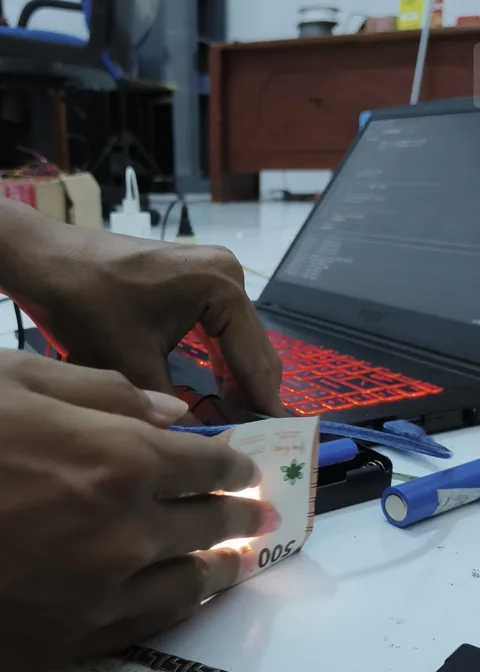
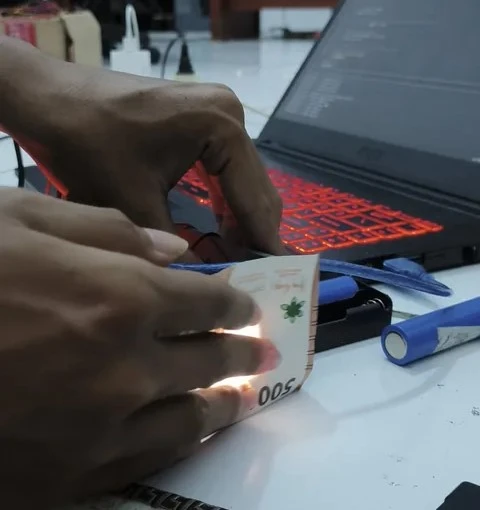
Update gambar

diff --git a/projek.html b/projek.html
@@ -1,20 +1,25 @@
 <!doctype html>
 <html lang="id">
+
 <head>
   <meta charset="UTF-8" />
   <meta name="viewport" content="width=device-width, initial-scale=1" />
   <meta name="theme-color" content="#f7f7f4" />
   <title>Jasa Projek Elektronika &amp; IoT - Cetakin</title>
-  <meta name="description" content="Jasa pengembangan alat, prototipe elektronika, dan IoT di Cetakin. Lihat projek AAC Bicara Warna, TekSif Chromoney, dan IoT kelulut Mangrovepreneurs." />
+  <meta name="description"
+    content="Jasa pengembangan alat, prototipe elektronika, dan IoT di Cetakin. Lihat projek AAC Bicara Warna, TekSif Chromoney, dan IoT kelulut Mangrovepreneurs." />
   <meta property="og:type" content="website" />
   <meta property="og:title" content="Jasa Projek - Cetakin" />
-  <meta property="og:description" content="Dari kebutuhan, jadi alat yang bisa dipakai. Kenali pengerjaan perangkat asistif, elektronika, dan IoT bersama Cetakin." />
+  <meta property="og:description"
+    content="Dari kebutuhan, jadi alat yang bisa dipakai. Kenali pengerjaan perangkat asistif, elektronika, dan IoT bersama Cetakin." />
   <meta property="og:image" content="https://www.cetak-in.my.id/assets/projek/aac-result-720.webp" />
   <link rel="canonical" href="https://www.cetak-in.my.id/projek.html" />
   <link rel="icon" type="image/png" href="./assets/favicon.png" />
   <link rel="preconnect" href="https://fonts.googleapis.com" />
   <link rel="preconnect" href="https://fonts.gstatic.com" crossorigin />
-  <link href="https://fonts.googleapis.com/css2?family=DM+Sans:wght@400;500;600;700&amp;family=Outfit:wght@400;500;600;700;800&amp;display=swap" rel="stylesheet" />
+  <link
+    href="https://fonts.googleapis.com/css2?family=DM+Sans:wght@400;500;600;700&amp;family=Outfit:wght@400;500;600;700;800&amp;display=swap"
+    rel="stylesheet" />
   <link rel="stylesheet" href="./styles.css" />
   <link rel="stylesheet" href="./projek.css" />
   <script type="module" src="./analytics-init.js"></script>
@@ -22,11 +27,13 @@
   <script src="./contact.js" defer></script>
   <script src="./app.js" defer></script>
 </head>
+
 <body class="projects-page" id="atas">
   <a class="skip-link" href="#konten">Lewati ke konten</a>
   <header class="site-header">
     <div class="nav-shell container">
-      <a class="brand" href="./index.html" aria-label="Beranda Cetakin"><img src="./assets/logo.png" alt="Cetakin" width="532" height="169" /></a>
+      <a class="brand" href="./index.html" aria-label="Beranda Cetakin"><img src="./assets/logo.png" alt="Cetakin"
+          width="532" height="169" /></a>
       <nav class="desktop-nav" aria-label="Navigasi utama">
         <a href="./index.html">Beranda</a>
         <a href="./clicker.html">Clicker custom</a>
@@ -35,7 +42,8 @@
         <a href="./projek.html" aria-current="page">Jasa Projek</a>
       </nav>
       <a class="nav-cta" href="#diskusi">Bahas projek <span aria-hidden="true">↗</span></a>
-      <button class="menu-toggle" type="button" aria-label="Buka menu" aria-expanded="false" aria-controls="menu-ponsel"><span></span><span></span></button>
+      <button class="menu-toggle" type="button" aria-label="Buka menu" aria-expanded="false"
+        aria-controls="menu-ponsel"><span></span><span></span></button>
     </div>
     <nav class="mobile-nav" id="menu-ponsel" aria-label="Navigasi ponsel" hidden>
       <a href="./index.html">Beranda</a>
@@ -50,120 +58,256 @@
   <main id="konten">
     <section class="projects-hero" aria-labelledby="projects-title">
       <div class="container">
-        <div class="projects-breadcrumb"><a href="./index.html">Beranda</a><span aria-hidden="true">/</span><span>Jasa Projek</span></div>
+        <div class="projects-breadcrumb"><a href="./index.html">Beranda</a><span aria-hidden="true">/</span><span>Jasa
+            Projek</span></div>
         <div class="projects-hero-grid">
           <div class="projects-hero-copy">
             <p class="projects-eyebrow"><span aria-hidden="true"></span> ELEKTRONIKA · PERANGKAT IoT · PROTOTIPE</p>
             <h1 id="projects-title">Dari kebutuhan,<br />jadi alat yang<br /><em>bisa dipakai.</em></h1>
-            <p class="projects-lead">Ada pekerjaan yang ingin dipermudah dengan alat? Kami bantu merancang dan merakitnya, dari rangkaian elektronik sampai aplikasi pendampingnya.</p>
+            <p class="projects-lead">Ada pekerjaan yang ingin dipermudah dengan alat? Kami bantu merancang dan
+              merakitnya, dari rangkaian elektronik sampai aplikasi pendampingnya.</p>
             <div class="projects-hero-actions">
-              <a class="button button-primary" data-wa-context="project" href="https://wa.me/6285822801431?text=Halo%20Kak%2C%20saya%20ingin%20membahas%20projek%20elektronika%20atau%20IoT%20di%20Cetakin.">Ceritakan kebutuhanmu <span aria-hidden="true">↗</span></a>
-              <a class="projects-text-link" href="#pilihan-projek">Lihat hasil pengerjaan <span aria-hidden="true">↓</span></a>
+              <a class="button button-primary" data-wa-context="project"
+                href="https://wa.me/6285822801431?text=Halo%20Kak%2C%20saya%20ingin%20membahas%20projek%20elektronika%20atau%20IoT%20di%20Cetakin.">Ceritakan
+                kebutuhanmu <span aria-hidden="true">↗</span></a>
+              <a class="projects-text-link" href="#pilihan-projek">Lihat hasil pengerjaan <span
+                  aria-hidden="true">↓</span></a>
             </div>
-            <div class="projects-hero-note"><span aria-hidden="true">✳</span><p>Setiap projek dimulai dari kebutuhan.<br />Komponen dan fiturnya menyusul.</p></div>
+            <div class="projects-hero-note"><span aria-hidden="true">✳</span>
+              <p>Setiap projek dimulai dari kebutuhan.<br />Komponen dan fiturnya menyusul.</p>
+            </div>
           </div>
           <div class="projects-hero-visual">
             <div class="projects-photo-frame">
-              <img src="./assets/projek/aac-result-720.webp" alt="Perangkat AAC Bicara Warna dengan tiga tombol fisik dalam casing cetak 3D." width="720" height="1280" fetchpriority="high" decoding="async" />
-              <div class="projects-photo-label"><span>DIRAKIT &amp; DIPROGRAM</span><b>AAC — Bicara Warna <span aria-hidden="true">↗</span></b></div>
+              <img src="./assets/projek/aac-result-720.webp"
+                alt="Perangkat AAC Bicara Warna dengan tiga tombol fisik dalam casing cetak 3D." width="720"
+                height="1280" fetchpriority="high" decoding="async" />
+              <div class="projects-photo-label"><span>DIRAKIT &amp; DIPROGRAM</span><b>AAC - Bicara Warna <span
+                    aria-hidden="true">↗</span></b></div>
             </div>
-            <div class="projects-inset"><img src="./assets/projek/mangrove-result-720.webp" alt="Perangkat IoT terpasang pada kotak sarang kelulut di lapangan." width="720" height="1280" decoding="async" /><span>DARI MEJA RAKIT<br />KE LAPANGAN.</span></div>
+            <div class="projects-inset"><img src="./assets/projek/mangrove-result-720.webp"
+                alt="Perangkat IoT terpasang pada kotak sarang kelulut di lapangan." width="720" height="1280"
+                decoding="async" /><span>DARI ISI KEPALA<br />JADI ALAT</span></div>
             <span class="projects-visual-mark" aria-hidden="true">+</span>
           </div>
         </div>
-        <div class="projects-hero-bottom"><span>PROJEK PILIHAN / 01—03</span><span>OLEH NAUFAL ELYZAR · CETAKIN</span></div>
+        <div class="projects-hero-bottom"><span>PROJEK PILIHAN / 01—03</span><span>OLEH NAUFAL ELYZAR · CETAKIN</span>
+        </div>
       </div>
     </section>
 
     <section class="projects-scope container" aria-label="Lingkup pengerjaan">
-      <div><span class="projects-scope-no">01 / RANGKAIAN</span><h2>Alat sesuai fungsi.</h2><p>Pemilihan sensor, perakitan rangkaian, dan pemrograman mikrokontroler sesuai kebutuhan alat.</p></div>
-      <div><span class="projects-scope-no">02 / BENTUK</span><h2>Rapi sampai casing.</h2><p>Penempatan komponen dan casing cetak 3D dipikirkan bersama cara alat dipegang dan digunakan.</p></div>
-      <div><span class="projects-scope-no">03 / KONEKSI</span><h2>Data yang terbaca.</h2><p>Untuk kebutuhan IoT, pembacaan sensor dapat dihubungkan ke aplikasi agar lebih mudah dipantau.</p></div>
+      <div><span class="projects-scope-no">01 / RANGKAIAN</span>
+        <h2>Alat sesuai fungsi.</h2>
+        <p>Pemilihan sensor, perakitan rangkaian, dan pemrograman mikrokontroler sesuai kebutuhan alat.</p>
+      </div>
+      <div><span class="projects-scope-no">02 / BENTUK</span>
+        <h2>Rapi sampai casing.</h2>
+        <p>Penempatan komponen dan casing cetak 3D dipikirkan bersama cara alat dipegang dan digunakan.</p>
+      </div>
+      <div><span class="projects-scope-no">03 / KONEKSI</span>
+        <h2>Data yang terbaca.</h2>
+        <p>Untuk kebutuhan IoT, pembacaan sensor dapat dihubungkan ke aplikasi agar lebih mudah dipantau.</p>
+      </div>
     </section>
 
     <section class="projects-work container" id="pilihan-projek" aria-labelledby="work-title">
       <div class="projects-section-heading reveal">
-        <div><span class="section-index">BEBERAPA YANG SUDAH DIKERJAKAN</span><h2 id="work-title">Beda kebutuhan.<br /><em>Beda pendekatan.</em></h2></div>
-        <p>Dari alat bantu komunikasi sampai pemantauan sarang lebah. Berikut tiga contoh pengerjaan, beserta fungsi dan bagian yang kami tangani.</p>
+        <div><span class="section-index">BEBERAPA YANG SUDAH DIKERJAKAN</span>
+          <h2 id="work-title">Beda kebutuhan.<br /><em>Beda pendekatan.</em></h2>
+        </div>
+        <p>Dari alat bantu komunikasi sampai pemantauan sarang lebah. Berikut tiga contoh pengerjaan, beserta fungsi dan
+          bagian yang kami tangani.</p>
       </div>
 
       <article class="project-case project-case-aac" id="aac" aria-labelledby="aac-title">
         <div class="project-case-media reveal">
-          <div class="project-image-wrap"><img src="./assets/projek/aac-result-720.webp" alt="Hasil perakitan AAC Bicara Warna: tiga tombol, indikator baterai, dan casing portabel." width="720" height="1280" loading="lazy" decoding="async" /><span class="project-image-tag">01 / TEKNOLOGI ASISTIF</span></div>
+          <div class="project-image-wrap"><img src="./assets/projek/aac-result-720.webp"
+              alt="Hasil perakitan AAC Bicara Warna: tiga tombol, indikator baterai, dan casing portabel." width="720"
+              height="1280" loading="lazy" decoding="async" /><span class="project-image-tag">01 / TEKNOLOGI
+              ASISTIF</span></div>
           <div class="project-media-foot"><span>DOKUMENTASI HASIL ALAT</span><span aria-hidden="true">↗</span></div>
         </div>
         <div class="project-case-copy reveal">
           <p class="project-case-category">AAC / ALAT BANTU KOMUNIKASI</p>
           <h3 id="aac-title">Bicara Warna<span>.</span></h3>
           <p class="project-case-intro">Tiga tombol sederhana.<br />Supaya keinginan bisa tersampaikan.</p>
-          <p>Perangkat AAC <span lang="en">(Augmentative and Alternative Communication)</span> yang mengubah pilihan tombol menjadi suara “Mau”, “Iya”, dan “Tidak”. Dibuat untuk mendukung komunikasi pengguna dengan hambatan bicara verbal.</p>
-          <dl class="project-case-details"><div><dt>Konteks</dt><dd>Kelompok 2 · Pendidikan Khusus ULM</dd></div><div><dt>Pengerjaan</dt><dd>Wiring PCB, pemrograman Arduino, dan integrasi rangkaian ke casing cetak 3D.</dd></div></dl>
-          <ul class="project-tech" aria-label="Teknologi AAC"><li>Arduino Nano V3</li><li>Modul MP3</li><li>Tombol fisik</li><li>Casing PLA+</li></ul>
-          <a class="projects-text-link" href="https://naufalelyzar11.github.io/myArtikel/projects/aac/" target="_blank" rel="noopener noreferrer">Lihat dokumentasi lengkap <span aria-hidden="true">↗</span><span class="sr-only"> (tab baru)</span></a>
+          <p>Perangkat AAC <span lang="en">(Augmentative and Alternative Communication)</span> yang mengubah pilihan
+            tombol menjadi suara “Mau”, “Iya”, dan “Tidak”. Dibuat untuk mendukung komunikasi pengguna dengan hambatan
+            bicara verbal.</p>
+          <dl class="project-case-details">
+            <div>
+              <dt>Konteks</dt>
+              <dd>Kelompok 2 · Pendidikan Khusus ULM</dd>
+            </div>
+            <div>
+              <dt>Pengerjaan</dt>
+              <dd>Wiring PCB, pemrograman Arduino, dan integrasi rangkaian ke casing cetak 3D.</dd>
+            </div>
+          </dl>
+          <ul class="project-tech" aria-label="Teknologi AAC">
+            <li>Arduino Nano V3</li>
+            <li>Modul MP3</li>
+            <li>Tombol fisik</li>
+            <li>Casing PLA+</li>
+          </ul>
+          <a class="projects-text-link" href="https://naufalelyzar11.github.io/myArtikel/projects/aac/" target="_blank"
+            rel="noopener noreferrer">Lihat dokumentasi lengkap <span aria-hidden="true">↗</span><span class="sr-only">
+              (tab baru)</span></a>
         </div>
       </article>
 
       <article class="project-case project-case-teksif" id="teksif" aria-labelledby="teksif-title">
         <div class="project-case-media reveal">
-          <div class="project-image-wrap"><img src="./assets/projek/teksif-result-b4ddbcc5-720.webp" alt="Perangkat TekSif Chromoney dengan speaker dan celah pemindai uang pada casing cetak 3D." width="720" height="1280" loading="lazy" decoding="async" /><span class="project-image-tag">02 / TEKNOLOGI ASISTIF</span></div>
+          <div class="project-image-wrap"><img src="./assets/projek/teksif-result-b4ddbcc5-720.webp"
+              alt="Perangkat TekSif Chromoney dengan speaker dan celah pemindai uang pada casing cetak 3D." width="720"
+              height="1280" loading="lazy" decoding="async" /><span class="project-image-tag">02 / TEKNOLOGI
+              ASISTIF</span></div>
           <div class="project-media-foot"><span>DOKUMENTASI HASIL ALAT</span><span aria-hidden="true">↗</span></div>
         </div>
         <div class="project-case-copy reveal">
           <p class="project-case-category">TEKSIF / PENGENAL NOMINAL UANG</p>
           <h3 id="teksif-title">Chromoney<span>.</span></h3>
           <p class="project-case-intro">Kenali uang yang dipegang,<br />lewat suara.</p>
-          <p>Alat portabel untuk membantu pengguna tunanetra mengenali nominal uang kertas Rupiah. Sensor membaca warna uang, lalu speaker menyebutkan nominalnya. Tombol fisik membantu pengoperasian tanpa perlu melihat layar.</p>
-          <dl class="project-case-details"><div><dt>Konteks</dt><dd>Kelompok 4 · Pendidikan Khusus ULM</dd></div><div><dt>Pengerjaan</dt><dd>Perakitan PCB, pemrograman dan kalibrasi sensor, serta integrasi audio dan baterai.</dd></div></dl>
-          <ul class="project-tech" aria-label="Teknologi TekSif"><li>Sensor warna</li><li>Arduino IDE</li><li>Keluaran suara</li><li>Isi ulang Type-C</li></ul>
-          <a class="projects-text-link" href="https://naufalelyzar11.github.io/myArtikel/projects/teksif/" target="_blank" rel="noopener noreferrer">Lihat dokumentasi lengkap <span aria-hidden="true">↗</span><span class="sr-only"> (tab baru)</span></a>
+          <p>Alat portabel untuk membantu pengguna tunanetra mengenali nominal uang kertas Rupiah. Sensor membaca warna
+            uang, lalu speaker menyebutkan nominalnya. Tombol fisik membantu pengoperasian tanpa perlu melihat layar.
+          </p>
+          <dl class="project-case-details">
+            <div>
+              <dt>Konteks</dt>
+              <dd>Kelompok 4 · Pendidikan Khusus ULM</dd>
+            </div>
+            <div>
+              <dt>Pengerjaan</dt>
+              <dd>Perakitan PCB, pemrograman dan kalibrasi sensor, serta integrasi audio dan baterai.</dd>
+            </div>
+          </dl>
+          <ul class="project-tech" aria-label="Teknologi TekSif">
+            <li>Sensor warna</li>
+            <li>Arduino IDE</li>
+            <li>Keluaran suara</li>
+            <li>Isi ulang Type-C</li>
+          </ul>
+          <a class="projects-text-link" href="https://naufalelyzar11.github.io/myArtikel/projects/teksif/"
+            target="_blank" rel="noopener noreferrer">Lihat dokumentasi lengkap <span aria-hidden="true">↗</span><span
+              class="sr-only"> (tab baru)</span></a>
         </div>
       </article>
 
       <article class="project-case project-case-iot" id="kelulut" aria-labelledby="kelulut-title">
         <div class="project-case-media reveal">
-          <div class="project-image-wrap"><img src="./assets/projek/mangrove-result-720.webp" alt="Rangkaian pemantauan IoT Mangrovepreneurs dipasang di bawah sarang lebah kelulut." width="720" height="1280" loading="lazy" decoding="async" /><span class="project-image-tag">03 / IoT &amp; APLIKASI MOBILE</span></div>
-          <div class="project-media-foot"><span>DOKUMENTASI PEMASANGAN DI LAPANGAN</span><span aria-hidden="true">↗</span></div>
+          <div class="project-image-wrap"><img src="./assets/projek/mangrove-result-720.webp"
+              alt="Rangkaian pemantauan IoT Mangrovepreneurs dipasang di bawah sarang lebah kelulut." width="720"
+              height="1280" loading="lazy" decoding="async" /><span class="project-image-tag">03 / IoT &amp; APLIKASI
+              MOBILE</span></div>
+          <div class="project-media-foot"><span>DOKUMENTASI PEMASANGAN DI LAPANGAN</span><span
+              aria-hidden="true">↗</span></div>
         </div>
         <div class="project-case-copy reveal">
           <p class="project-case-category">IoT KELULUT / MANGROVEPRENEURS</p>
           <h3 id="kelulut-title">Pantau sarang,<br />dari ponsel<span>.</span></h3>
           <p class="project-case-intro">Cek kondisi sarang<br />tanpa sering membuka kotaknya.</p>
-          <p>Sistem pemantauan suhu, kelembapan, dan bobot sarang lebah kelulut. Data sensor dikirim ke aplikasi Flutter melalui Firebase, sehingga perubahan kondisi dan target bobot panen bisa dipantau dari ponsel.</p>
-          <dl class="project-case-details"><div><dt>Konteks</dt><dd>Tim FEB ULM · Innovilleague 2026</dd></div><div><dt>Pengerjaan</dt><dd>Survei lapangan, perakitan perangkat ESP32, integrasi Firebase, dan aplikasi Flutter.</dd></div></dl>
-          <ul class="project-tech" aria-label="Teknologi Mangrovepreneurs"><li>ESP32</li><li>BME280</li><li>Load cell + HX711</li><li>Firebase</li><li>Flutter</li></ul>
-          <a class="projects-text-link" href="https://naufalelyzar11.github.io/myArtikel/projects/mangrovepreneurs/" target="_blank" rel="noopener noreferrer">Lihat dokumentasi lengkap <span aria-hidden="true">↗</span><span class="sr-only"> (tab baru)</span></a>
+          <p>Sistem pemantauan suhu, kelembapan, dan bobot sarang lebah kelulut. Data sensor dikirim ke aplikasi Flutter
+            melalui Firebase, sehingga perubahan kondisi dan target bobot panen bisa dipantau dari ponsel.</p>
+          <dl class="project-case-details">
+            <div>
+              <dt>Konteks</dt>
+              <dd>Tim FEB ULM · Innovilleague 2026</dd>
+            </div>
+            <div>
+              <dt>Pengerjaan</dt>
+              <dd>Survei lapangan, perakitan perangkat ESP32, integrasi Firebase, dan aplikasi Flutter.</dd>
+            </div>
+          </dl>
+          <ul class="project-tech" aria-label="Teknologi Mangrovepreneurs">
+            <li>ESP32</li>
+            <li>BME280</li>
+            <li>Load cell + HX711</li>
+            <li>Firebase</li>
+            <li>Flutter</li>
+          </ul>
+          <a class="projects-text-link" href="https://naufalelyzar11.github.io/myArtikel/projects/mangrovepreneurs/"
+            target="_blank" rel="noopener noreferrer">Lihat dokumentasi lengkap <span aria-hidden="true">↗</span><span
+              class="sr-only"> (tab baru)</span></a>
         </div>
       </article>
 
       <div class="project-bench reveal" aria-labelledby="bench-title">
-        <div class="project-bench-heading"><h3 id="bench-title">Di balik alatnya.</h3><p>Merangkai, mencoba, lalu merapikan kembali.</p></div>
+        <div class="project-bench-heading">
+          <h3 id="bench-title">Di balik alatnya.</h3>
+          <p>Merangkai, mencoba, lalu merapikan kembali.</p>
+        </div>
         <div class="project-bench-grid">
-          <figure><img src="./assets/projek/aac-wiring-480.webp" alt="Penataan kabel dan jalur rangkaian AAC pada papan PCB." width="480" height="853" loading="lazy" decoding="async" /><figcaption><span>01</span> Wiring &amp; perakitan AAC</figcaption></figure>
-          <figure><img src="./assets/projek/teksif-test-480.webp" alt="Pengujian pembacaan uang pada alat TekSif dengan laptop." width="480" height="672" loading="lazy" decoding="async" /><figcaption><span>02</span> Pengujian sensor TekSif</figcaption></figure>
-          <figure><img src="./assets/projek/mangrove-app-709.webp" alt="Tampilan aplikasi Flutter Mangrovepreneurs untuk memantau data sarang kelulut." width="709" height="1600" loading="lazy" decoding="async" /><figcaption><span>03</span> Aplikasi pendamping IoT</figcaption></figure>
+          <figure><img src="./assets/projek/aac-wiring-480.webp"
+              alt="Penataan kabel dan jalur rangkaian AAC pada papan PCB." width="480" height="853" loading="lazy"
+              decoding="async" />
+            <figcaption><span>01</span> Wiring &amp; perakitan AAC</figcaption>
+          </figure>
+          <figure><img src="./assets/projek/teksif-test-480.webp"
+              alt="Pengujian pembacaan uang pada alat TekSif dengan laptop." width="480" height="672" loading="lazy"
+              decoding="async" />
+            <figcaption><span>02</span> Pengujian sensor TekSif</figcaption>
+          </figure>
+          <figure><img src="./assets/projek/mangrove-app-709.webp"
+              alt="Tampilan aplikasi Flutter Mangrovepreneurs untuk memantau data sarang kelulut." width="709"
+              height="1600" loading="lazy" decoding="async" />
+            <figcaption><span>03</span> Aplikasi pendamping IoT</figcaption>
+          </figure>
         </div>
       </div>
-      <p class="projects-credit">Projek dan dokumentasi oleh Naufal Elyzar. <a href="https://github.com/NaufalElyzar11/myArtikel" target="_blank" rel="noopener noreferrer">CV &amp; portofolio <span aria-hidden="true">↗</span><span class="sr-only"> (tab baru)</span></a></p>
+      <p class="projects-credit">Projek dan dokumentasi oleh Naufal Elyzar. <a
+          href="https://github.com/NaufalElyzar11/myArtikel" target="_blank" rel="noopener noreferrer">CV &amp;
+          portofolio <span aria-hidden="true">↗</span><span class="sr-only"> (tab baru)</span></a></p>
     </section>
 
     <section class="projects-process" aria-labelledby="process-title">
       <div class="container">
-        <div class="projects-process-heading reveal"><span class="section-index">CARA MEMULAINYA</span><h2 id="process-title">Kebutuhannya dulu.<br />Baru kita rancang alatnya.</h2></div>
+        <div class="projects-process-heading reveal"><span class="section-index">CARA MEMULAINYA</span>
+          <h2 id="process-title">Kebutuhannya dulu.<br />Baru kita rancang alatnya.</h2>
+        </div>
         <ol class="projects-steps">
-          <li class="reveal"><span aria-hidden="true">01</span><h3>Ceritakan masalahnya</h3><p>Alatnya untuk siapa, dipakai di mana, dan apa yang perlu dikerjakan? Foto, sketsa, atau referensi akan membantu.</p></li>
-          <li class="reveal"><span aria-hidden="true">02</span><h3>Sepakati lingkupnya</h3><p>Kita bahas fungsi, komponen, bentuk alat, biaya, dan waktu pengerjaan sesuai kebutuhan serta anggaran.</p></li>
-          <li class="reveal"><span aria-hidden="true">03</span><h3>Rakit dan uji bersama</h3><p>Pengerjaan mengikuti lingkup yang disepakati. Hasilnya diuji terhadap fungsi yang dibutuhkan sebelum diserahkan.</p></li>
+          <li class="reveal"><span aria-hidden="true">01</span>
+            <h3>Ceritakan masalahnya</h3>
+            <p>Alatnya untuk siapa, dipakai di mana, dan apa yang perlu dikerjakan? Foto, sketsa, atau referensi akan
+              membantu.</p>
+          </li>
+          <li class="reveal"><span aria-hidden="true">02</span>
+            <h3>Sepakati lingkupnya</h3>
+            <p>Kita bahas fungsi, komponen, bentuk alat, biaya, dan waktu pengerjaan sesuai kebutuhan serta anggaran.
+            </p>
+          </li>
+          <li class="reveal"><span aria-hidden="true">03</span>
+            <h3>Rakit dan uji bersama</h3>
+            <p>Pengerjaan mengikuti lingkup yang disepakati. Hasilnya diuji terhadap fungsi yang dibutuhkan sebelum
+              diserahkan.</p>
+          </li>
         </ol>
       </div>
     </section>
 
     <section class="projects-contact container" id="diskusi" aria-labelledby="discussion-title">
       <div class="projects-contact-inner reveal">
-        <div><span class="section-index">PUNYA KEBUTUHAN SERUPA?</span><h2 id="discussion-title">Mulai dari cerita<br /><em>projekmu.</em></h2><p>Tidak harus sudah punya desain lengkap. Sampaikan kebutuhan, perkiraan anggaran, dan target waktunya. Kita lihat apa yang bisa dikerjakan.</p><a class="button button-primary" data-wa-context="project" href="https://wa.me/6285822801431?text=Halo%20Kak%2C%20saya%20ingin%20membahas%20projek%20elektronika%20atau%20IoT%20di%20Cetakin.">Diskusi lewat WhatsApp <span aria-hidden="true">↗</span></a></div>
-        <div class="projects-contact-aside"><span class="projects-contact-symbol" aria-hidden="true">✳</span><p>Fungsi yang jelas.<br />Bentuk yang dipikirkan.<br />Pengerjaan sesuai kebutuhan.</p><span>CETAKIN / JASA PROJEK</span></div>
+        <div><span class="section-index">PUNYA KEBUTUHAN SERUPA?</span>
+          <h2 id="discussion-title">Mulai dari cerita<br /><em>projekmu.</em></h2>
+          <p>Tidak harus sudah punya desain lengkap. Sampaikan kebutuhan, perkiraan anggaran, dan target waktunya. Kita
+            lihat apa yang bisa dikerjakan.</p><a class="button button-primary" data-wa-context="project"
+            href="https://wa.me/6285822801431?text=Halo%20Kak%2C%20saya%20ingin%20membahas%20projek%20elektronika%20atau%20IoT%20di%20Cetakin.">Diskusi
+            lewat WhatsApp <span aria-hidden="true">↗</span></a>
+        </div>
+        <div class="projects-contact-aside"><span class="projects-contact-symbol" aria-hidden="true">✳</span>
+          <p>Fungsi yang jelas.<br />Bentuk yang dipikirkan.<br />Pengerjaan sesuai kebutuhan.</p><span>CETAKIN / JASA
+            PROJEK</span>
+        </div>
       </div>
     </section>
   </main>
-  <footer class="site-footer"><div class="container footer-inner"><a href="./index.html" aria-label="Beranda Cetakin"><img src="./assets/logo.png" alt="Cetakin" width="532" height="169" /></a><p>Ide kecil jadi bentuk nyata.</p><span>© <span id="year">2026</span> Cetakin</span><a href="#atas">Kembali ke atas ↑</a></div></footer>
+  <footer class="site-footer">
+    <div class="container footer-inner"><a href="./index.html" aria-label="Beranda Cetakin"><img src="./assets/logo.png"
+          alt="Cetakin" width="532" height="169" /></a>
+      <p>Ide kecil jadi bentuk nyata.</p><span>© <span id="year">2026</span> Cetakin</span><a href="#atas">Kembali ke
+        atas ↑</a>
+    </div>
+  </footer>
 </body>
+
 </html>

diff --git a/admin.js b/admin.js
@@ -2010,7 +2010,6 @@
     ctx.fillStyle = grad;
     ctx.fillRect(0, 0, W, 18);
 
-    const padX = 80;
     let curY = 74;
 
     // 3. Header Kiri: Logo + Pill Divisi + Alamat
@@ -2256,14 +2255,12 @@
 
     // 7. Bagian Bawah: Kiri (Terbilang & Catatan) | Kanan (Ringkasan Tagihan)
     curY += thH + totalRowsH + 42;
-    const leftColW = 790;
     const rightColW = tableW - leftColW - 44;
     const rightColX = padX + leftColW + 44;
 
     // Terbilang Box
     ctx.font = '700 23px "DM Sans", sans-serif';
-    const terbLines = wrapCanvasText(ctx, vm.terbilang, leftColW - 60);
-    const terbBoxH = 66 + terbLines.length * 32;
+    // Reuse the measurements above so canvas height and drawing stay consistent.
 
     drawRoundRect(ctx, padX, curY, leftColW, terbBoxH, 16);
     ctx.fillStyle = '#f8fafc';
@@ -2286,8 +2283,6 @@
     // Notes Box
     const noteBoxY = curY + terbBoxH + 26;
     ctx.font = '500 21px "DM Sans", sans-serif';
-    const noteLines = wrapCanvasText(ctx, vm.buyerNote, leftColW - 64);
-    const noteBoxH = 74 + noteLines.length * 31;
 
     drawRoundRect(ctx, padX, noteBoxY, leftColW, noteBoxH, 18);
     ctx.fillStyle = '#ffffff';
@@ -2311,7 +2306,6 @@
     }
 
     // Summary Box (Kanan)
-    const sumBoxH = 340 + (vm.discount > 0 ? 42 : 0) + (vm.shipping > 0 ? 42 : 0);
     drawRoundRect(ctx, rightColX, curY, rightColW, sumBoxH, 22);
     ctx.fillStyle = '#f8fafc';
     ctx.fill();
